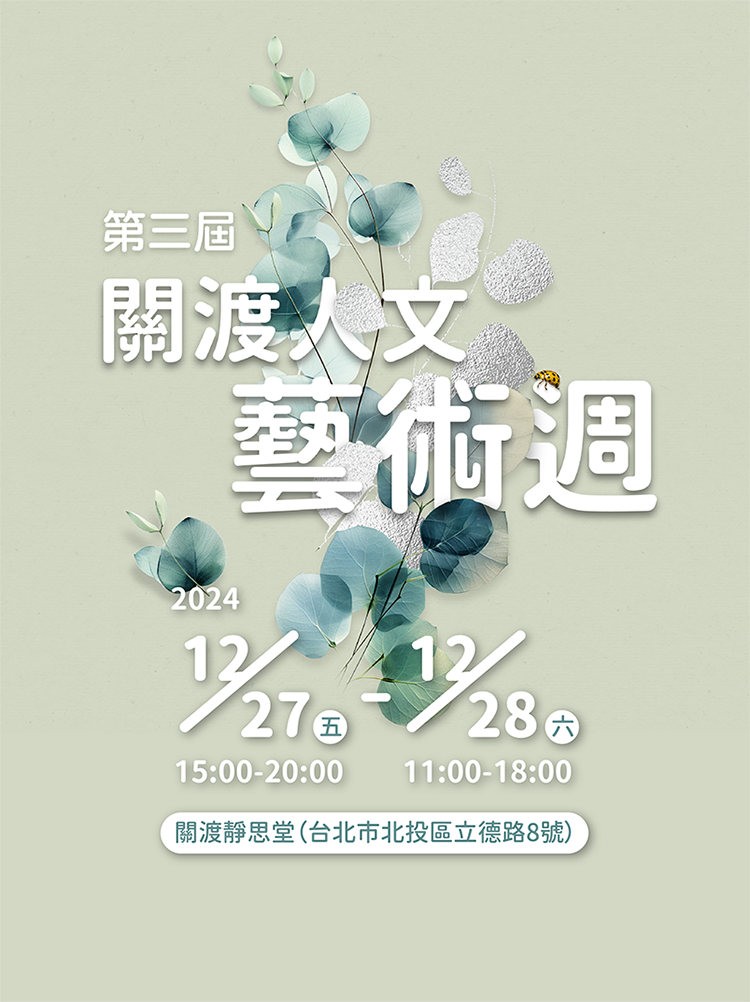
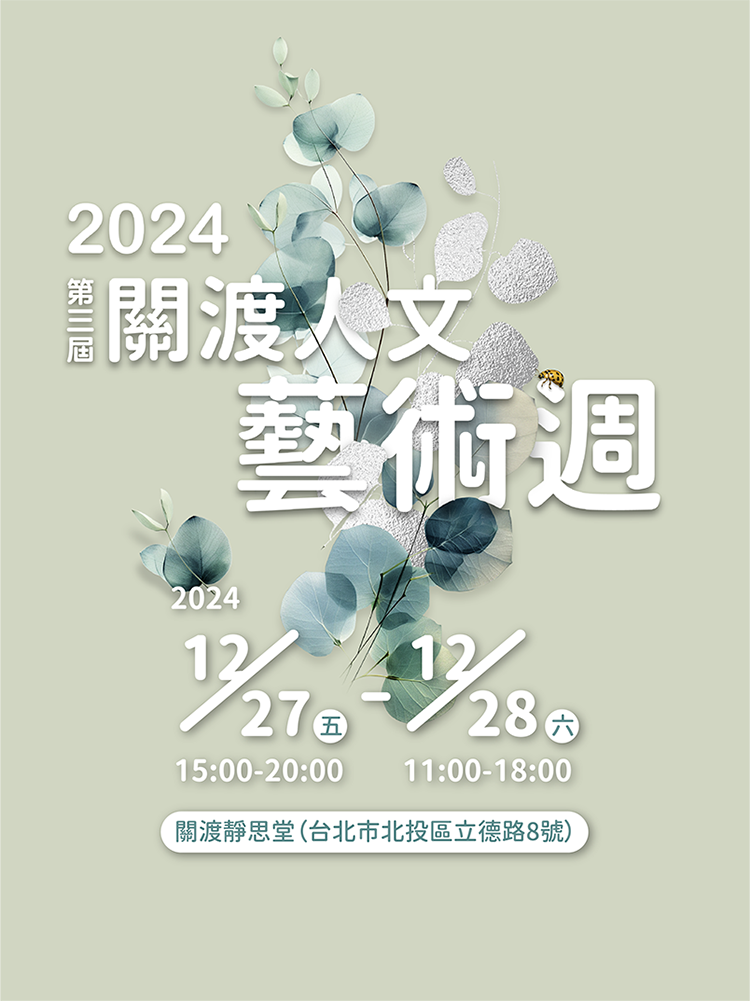
1115更新
.主視覺小調整（因為活動名稱多了2024的字樣）
2.Bar上的：「第三屆關渡人文藝術週」網頁上再幫忙加上「2024」（參考主視覺排法）
3.【如何抵達？】區域文字調整（地圖維持原樣）
4.【特色活動】台電、血拾人生與朱宗慶更新圖檔、血拾人生補上文案

diff --git a/index.html b/index.html
@@ -58,8 +58,8 @@
     <!-- 內容 -->
     <div class="FOR_MAIN">
         <div class="BN">
-            <img src="img/pic/BN.jpg" alt="BN">
-            <p class="btn_text">自備環保餐具可參與集點</p>
+            <img src="img/pic/BN.png" alt="BN">
+            <p class="btn_text">自備環保餐具可參與集點活動</p>
         </div>
        
         <div class="s1"  id="s1">
@@ -151,17 +151,18 @@
                      <!-- 「血．拾人生」粉絲見面會 -->
                     <li class="card_item">
                         <div class="img-box">
-                            <img src="img/section2/S2img08.jpg" alt="01">
+                            <img src="img/section2/S2img_02.jpg" alt="01">
                         </div>
                         <div class="text_section">
-                            <p>內容內容
-                                <br>演出時間：
-                                <br>12/27(五)17:00-17:20
-                                <br>12/28(六)14:30-14:50
+                            <p>12/28限定
+                                <br>邀請大愛劇「血．拾人生」劇中表演藝術家們來到關渡，分享拍攝時不為人知的幕後花絮，除了近距離互動外，還能一起加入骨髓驗血建檔，幫助更多需要幫助的人，一同將愛與希望傳遞下去！
+                                <br>
+                                <br>活動時間:
+                                <br>12/28(六)14:00-15:30 
                             </p>
                             <div class="card_title">
                                 <div class="CT">
-                                    血．拾人生」粉絲見面會
+                                    「血．拾人生」粉絲見面會
                                     <img src="img/cardtitle_left.svg" alt="" class="card_sticker">
                                 </div>
                                 <img src="img/cardtitle_right.svg" alt="" class="card_right">
@@ -297,7 +298,7 @@
                     <!-- 節電，從我改變！ -->
                     <li class="card_item">
                         <div class="img-box">
-                            <img src="img/section2/safe.jpg" alt="01">
+                            <img src="img/section2/S2img09.jpg" alt="01">
                         </div>
                         <div class="text_section">
                             <p>
@@ -391,12 +392,19 @@
                 <div class="location_info">
                      <ul>
                         <li>｜公車｜</li>
-                        <li>223、838、983<br>大愛電視臺站下車</li>
+                        <li>223、838、983<br>「大愛電視臺站 / 慈濟志業中心」下車</li>
                      </ul>
                      <ul>
                         <li>｜捷運｜</li>
-                        <li>搭乘淡水信義線，於關渡站下車，1號出口步行前往（約10分鐘）</li>
-                        <li> 1 號出口 → 大度路三段 270 巷 → 立功街 55 巷 → 右轉立功街  → 左轉大度路三段 → 立德路口</li>
+                        <li>搭乘淡水信義線，於關渡站下車，1號出口可搭乘接駁車</li>
+                        <li>或轉乘公車223、838 於「大愛電視臺站」下車</li>
+                     </ul>
+                     <ul>
+                        <li>｜接駁車｜</li>
+                        <li>兩台20人座小巴，由人文志業中心及關渡捷運站巡迴對開</li>
+                        <li>&emsp;接駁時間：</li>
+                        <li style="list-style-type: disc;margin-left: 40px;">12/27(五) 15:30開始，21:30結束，約15分鐘一班</li>
+                        <li style="list-style-type: disc; margin-left: 40px;">12/28(六) 10:30開始，18:30結束，約15分鐘一班</li>
                      </ul>
                      <ul>
                         <li>｜開車｜</li>
@@ -419,7 +427,7 @@
                 </div>
                 <div class="map_1000px">
                     <div class="action_map">
-                        <img src="img/pic/BN.jpg" alt="test">
+                        <img src="img/pic/BN.png" alt="test">
                     </div>
                 </div>
                 <!-- 圖片定位 -->
@@ -439,7 +447,7 @@
                 </div>
                 <div class="map_1000px">
                     <div class="action_map">
-                        <img src="img/pic/BN.jpg" alt="test">
+                        <img src="img/pic/BN.png" alt="test">
                     </div>
                 </div>
                 <a href="#">立即前往體驗</a>

diff --git a/style.css b/style.css
@@ -562,7 +562,7 @@ ul.see_more{
     position: relative;
     z-index: 2; */
     width: 100%;
-    padding-bottom: 80%;
+    padding-bottom: 75%;
     height: 0;
     overflow: hidden;
 }
@@ -802,7 +802,7 @@ ul.see_more{
     align-items: center;
     height: auto;
     width: 100%;
-    max-width: 1000px;
+    max-width: 1200px;
     margin: 0 auto;
     position: relative;
     z-index: 2;
@@ -810,7 +810,6 @@ ul.see_more{
 .location_info{
     display: flex;
     flex-direction: column;
-    gap: 24px;
 }
 .location_info ul > li{
     font-family: 'GenSenRounded2TW-R', sans-serif;
